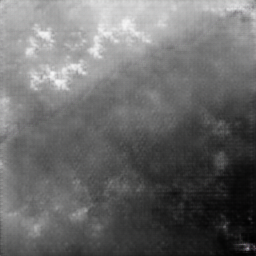
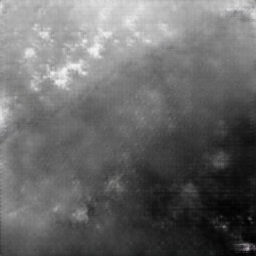
Rerun p2p test and adjust parameters

diff --git a/app/generate/results/two-pix2pix/test_latest/index.html b/app/generate/results/two-pix2pix/test_latest/index.html
@@ -33,34 +33,5 @@
         </td>
       </tr>
     </table>
-    <h3>a</h3>
-    <table border="1" style="table-layout: fixed;">
-      <tr>
-        <td halign="center" style="word-wrap: break-word;" valign="top">
-          <p>
-            <a href="images/a_real_A.png">
-              <img src="images/a_real_A.png" style="width:256px">
-            </a><br>
-            <p>real_A</p>
-          </p>
-        </td>
-        <td halign="center" style="word-wrap: break-word;" valign="top">
-          <p>
-            <a href="images/a_fake_B.png">
-              <img src="images/a_fake_B.png" style="width:256px">
-            </a><br>
-            <p>fake_B</p>
-          </p>
-        </td>
-        <td halign="center" style="word-wrap: break-word;" valign="top">
-          <p>
-            <a href="images/a_real_B.png">
-              <img src="images/a_real_B.png" style="width:256px">
-            </a><br>
-            <p>real_B</p>
-          </p>
-        </td>
-      </tr>
-    </table>
   </body>
 </html>

diff --git a/app/server.py b/app/server.py
@@ -21,7 +21,8 @@ def generate_heightmap():
     "--checkpoints_dir", "../models", 
     "--name", "two-pix2pix", 
     "--results_dir", "./generate/results", 
-    "--model", "pix2pix"])
+    "--model", "pix2pix",
+    "--load_size", "256"])
 
   with open("generate/results/two-pix2pix/test_latest/images/A_fake_B.png", "rb") as fh:
       encoded_string = base64.b64encode(fh.read())
